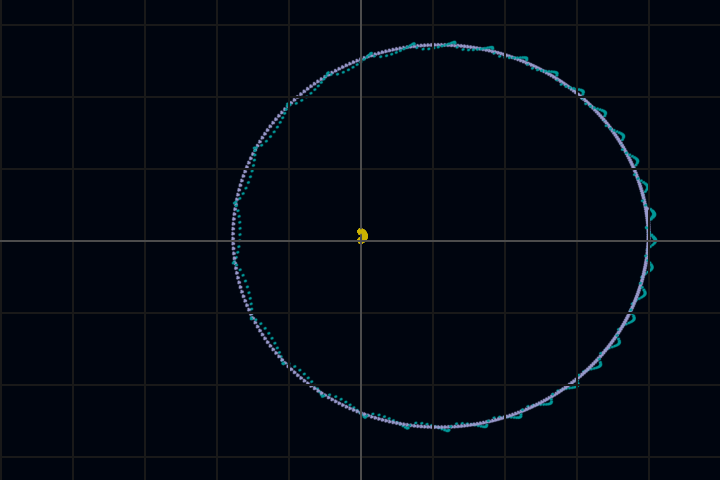
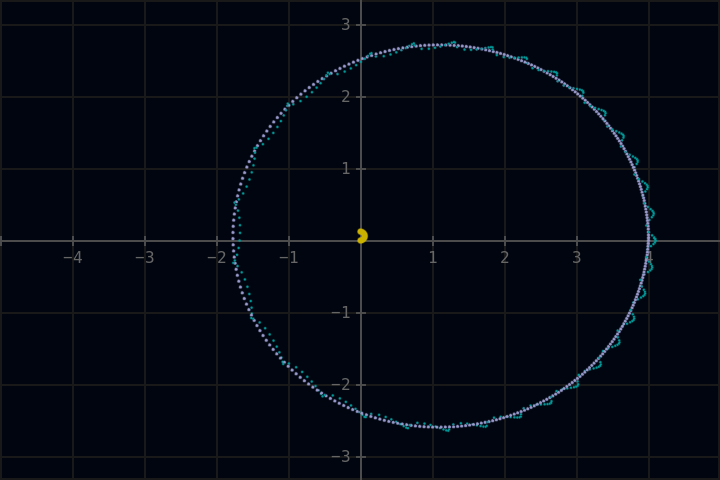
update

diff --git a/doc/examples/numerical-analysis.htm b/doc/examples/numerical-analysis.htm
@@ -165,7 +165,7 @@ sin = euler_any_order(|x,y| -y[0],{
 <h2 id="dynamical-systems">Dynamical systems</h2>
 
 <pre class="moss">
-use svg.plotlib: system
+use plotlib: system
 use math.ode: runge_kutta
 
 # Lorenz attractor
@@ -179,9 +179,9 @@ x,y,z = runge_kutta({
    w=40, unilateral = true
 })
 
-s = system(wx=25, wy=25, py=25)
-s.vplot(|t| [x(t),z(t)], {t0=0, t1=40, n=200})
-print(s.flush())
+s = system(w=400,h=400,scale=5,origin=[0,25],count=5)
+s.vplot(|t| [x(t),z(t)], {t0=0, t1=40, n=4000})
+s.idle()
 </pre>
 
 <div>
@@ -209,13 +209,8 @@ x,v = runge_kutta({
    unilateral = true
 })
 
-s = system(dark = true, w=400, h=400, scale=2)
-
-s.animate(fn|tstep|
-   t = 40*tstep
-   s.scatter([x(t)])
-end, clear = false)
-
+s = system(dark=true,w=400,h=400,count=5)
+s.scatter(x[0..34])
 s.idle()
 </pre>
 
@@ -239,8 +234,8 @@ function nbody({G,m})
    n = len(m)
    vindex = vector(*list(0..n-1))
    return |x| vindex.map(|i| G*(0..n-1).sum(|k|
-     vector(0,0) if k==i else
-     m[k]*(x[k]-x[i])/abs(x[k]-x[i])^3))
+      vector(0,0) if k==i else
+      m[k]*(x[k]-x[i])/abs(x[k]-x[i])^3))
 end
 
 m,x0,v0 = list(zip(
@@ -265,20 +260,20 @@ x,v = runge_kutta({
    unilateral = true
 })
 
-s = system(dark = true, w=720, h=480, scale=2)
+s = system(dark=true,w=720,h=480,count=5)
 
-s.animate(fn|tstep|
-   t = 4*tstep
+for t in 0..31:0.1
    xt = x(t)
 
-   s.scatter([xt[0]], radius=0.002)
+   s.rgb(0.8,0.7,0)
+   s.scatter([xt[0]], radius=0.5)
 
    s.rgb(0.6,0.6,0.8)
-   s.scatter([xt[1]], radius=0.001)
+   s.scatter([xt[1]], radius=0.1)
 
    s.rgb(0,0.6,0.6)
-   s.scatter([xt[2]], radius=0.0005)
-end, clear = false)
+   s.scatter([xt[2]], radius=0.02)
+end
 
 s.idle()
 </pre>

diff --git a/doc/examples/statistics.htm b/doc/examples/statistics.htm
@@ -115,18 +115,19 @@ rng = rand()
 a = list(-2..2: 0.1).map(|x| [x,x+2*rng()])
 r = linear_regression(a)
 
-# print(r)
+print(r)
 
 # Let us plot this sample
-use svg.plotlib: system
+use plotlib: system
 
-s = system()
-s.scatter(a)
+s = system(w=400,h=400,count=5)
+s.scatter(a,color=[0.5,0.5,0.5])
+s.scatter([r.center],color=[0.5,0,0.5])
+s.flush()
+
 s.plot([r.fx,r.gy])
-s.scatter([r.center],color="800080")
 
-print(s.flush())
-# moss lr &gt; plot.svg
+s.idle()
 </pre>
 
 <div>
@@ -138,7 +139,7 @@ print(s.flush())
 
 <pre class="moss">
 use math: sqrt,erf
-use svg.plotlib: system
+use plotlib: system
 
 # Numerical analysis:
 # inversion by bisection method
@@ -173,9 +174,9 @@ X = rand_cdf(Phi)
 F1 = cdf(X.list(10))
 F2 = cdf(X.list(100))
 
-s = system(wy=1.25,n=100)
+s = system(w=400,h=400,count=5,scale=[1,0.25])
 s.plot([Phi,F1,F2])
-print(s.flush())
+s.idle()
 </pre>
 
 <div>

diff --git a/doc/lib/graphics.htm b/doc/lib/graphics.htm
@@ -18,7 +18,6 @@
 <ol>
 <li><a href="#graphics">Module <code>graphics</code> &mdash; computer graphics</a>
 <li><a href="#plotlib">Module <code>plotlib</code> &mdash; graphing data and functions</a>
-<li><a href="#plotlib-implicit">Module <code>plotlib.implicit</code> &mdash; graphing zero sets</a>
 </ol>
 </div>
 

diff --git a/src/modules/graphics.rs b/src/modules/graphics.rs
@@ -3,16 +3,19 @@
 use std::ffi::{CString};
 use std::os::raw::{c_int, c_void};
 use std::mem;
+use std::ptr::null;
 use crate::sdl::{
     SDL_WINDOWPOS_CENTERED, SDL_WINDOW_SHOWN, SDL_RENDERER_ACCELERATED,
     SDL_KEYDOWN, SDL_KEYUP, SDL_PIXELFORMAT_RGB24,
-    Uint32, SDL_Scancode, SDL_Window, SDL_Renderer, SDL_Rect,
-    SDL_Event, SDL_PollEvent, SDL_BlendMode,
+    SDL_PIXELFORMAT_RGBA8888, SDL_TEXTUREACCESS_TARGET,
+    Uint32, SDL_Scancode, SDL_Window, SDL_Renderer, SDL_Texture,
+    SDL_Rect, SDL_Event, SDL_PollEvent, SDL_BlendMode,
     SDL_Delay, SDL_CreateWindow, SDL_CreateRenderer,
     SDL_SetRenderDrawColor, SDL_RenderClear, SDL_RenderPresent,
     SDL_RenderDrawPoint, SDL_RenderFillRect,
     SDL_Quit, SDL_DestroyWindow, SDL_SetRenderDrawBlendMode,
-    SDL_RenderReadPixels
+    SDL_RenderReadPixels, SDL_CreateTexture, SDL_SetRenderTarget,
+    SDL_RenderCopy
 };
 use std::f64::consts::PI;
 
@@ -84,6 +87,7 @@ struct Color {
 struct MutableCanvas {
     window: *mut SDL_Window,
     rdr: *mut SDL_Renderer,
+    texture: *mut SDL_Texture,
     buffer: Box<[Color]>,
     width: u32, height: u32,
     px: i32, py: i32, wx: f64, wy: f64,
@@ -100,17 +104,25 @@ impl MutableCanvas {
         let rdr = unsafe{
             SDL_CreateRenderer(window,0,SDL_RENDERER_ACCELERATED)
         };
+        let black = Color{r: 0, b: 0, g: 0, a: 0};
+        let buffer = vec![black; w*h].into_boxed_slice();
+        let texture = unsafe{
+            SDL_CreateTexture(rdr,SDL_PIXELFORMAT_RGBA8888,
+                SDL_TEXTUREACCESS_TARGET, w as c_int, h as c_int)
+        };
         unsafe{
             SDL_SetRenderDrawBlendMode(rdr,SDL_BlendMode::BLEND);
             SDL_SetRenderDrawColor(rdr,0,0,0,255);
             SDL_RenderClear(rdr);
-            SDL_SetRenderDrawColor(rdr,0xa0,0xa0,0xa0,255);
             SDL_RenderPresent(rdr);
+            SDL_SetRenderTarget(rdr,texture);
+            SDL_RenderClear(rdr);
+            SDL_SetRenderDrawColor(rdr,0xa0,0xa0,0xa0,255);
         }
-        let black = Color{r: 0, b: 0, g: 0, a: 0};
-        let buffer = vec![black; w*h].into_boxed_slice();
+
         return MutableCanvas{
-            window, rdr, buffer, width: w as u32, height: h as u32,
+            window, rdr, texture, buffer,
+            width: w as u32, height: h as u32,
             px: w as i32/2, py: h as i32/2,
             wx: 0.5*w as f64, wy: 0.5*w as f64,
             color: Color{r: 0xa0, g: 0xa0, b: 0xa0, a: 255}
@@ -118,7 +130,12 @@ impl MutableCanvas {
     }
 
     fn flush(&mut self) {
-        unsafe{SDL_RenderPresent(self.rdr);}
+        unsafe{
+            SDL_SetRenderTarget(self.rdr,null::<SDL_Texture>() as *mut _);
+            SDL_RenderCopy(self.rdr,self.texture,null(),null());
+            SDL_RenderPresent(self.rdr);
+            SDL_SetRenderTarget(self.rdr,self.texture);
+        }
     }
 
     fn flush_vg_buffer(&mut self) {
@@ -379,7 +396,7 @@ impl MutableCanvas {
         let mut buffer: Vec<u8> = vec![0;3*w*h];
         unsafe{
             SDL_RenderReadPixels(self.rdr,
-                std::ptr::null(),SDL_PIXELFORMAT_RGB24,
+                null(),SDL_PIXELFORMAT_RGB24,
                 buffer.as_mut_ptr() as *mut c_void,3*w as i32);
         }
         return buffer;

diff --git a/src/modules/sdl.rs b/src/modules/sdl.rs
@@ -309,6 +309,8 @@ pub const SDL_KEYDOWN: u32 = 0x300;
 pub const SDL_KEYUP: u32 = 0x301;
 
 pub const SDL_PIXELFORMAT_RGB24: u32 = 0x17101803;
+pub const SDL_PIXELFORMAT_RGBA8888: u32 = 0x16462004;
+pub const SDL_TEXTUREACCESS_TARGET: c_int = 2;
 
 #[repr(C)]
 pub struct SDL_Window {
@@ -317,6 +319,11 @@ pub struct SDL_Window {
 
 #[repr(C)]
 pub struct SDL_Renderer {
+    _mem: [u8; 0]
+}
+
+#[repr(C)]
+pub struct SDL_Texture {
     _mem: [u8; 0]
 }
 
@@ -363,6 +370,20 @@ extern "C" {
     pub fn SDL_RenderReadPixels(rdr: *mut SDL_Renderer,
         rect: *const SDL_Rect, format: Uint32,
         pixels: *mut c_void, picth: c_int
+    ) -> c_int;
+
+    pub fn  SDL_CreateTexture(rdr: *mut SDL_Renderer,
+        format: Uint32, access: c_int, w: c_int, h: c_int
+    ) -> *mut SDL_Texture;
+    
+    pub fn SDL_SetRenderTarget(rdr: *mut SDL_Renderer,
+        texture: *mut SDL_Texture
+    ) -> c_int;
+
+    pub fn SDL_RenderCopy(rdr: *mut SDL_Renderer,
+        texture: *mut SDL_Texture,
+        srcrect: *const SDL_Rect,
+        dstrect: *const SDL_Rect
     ) -> c_int;
 }
 
